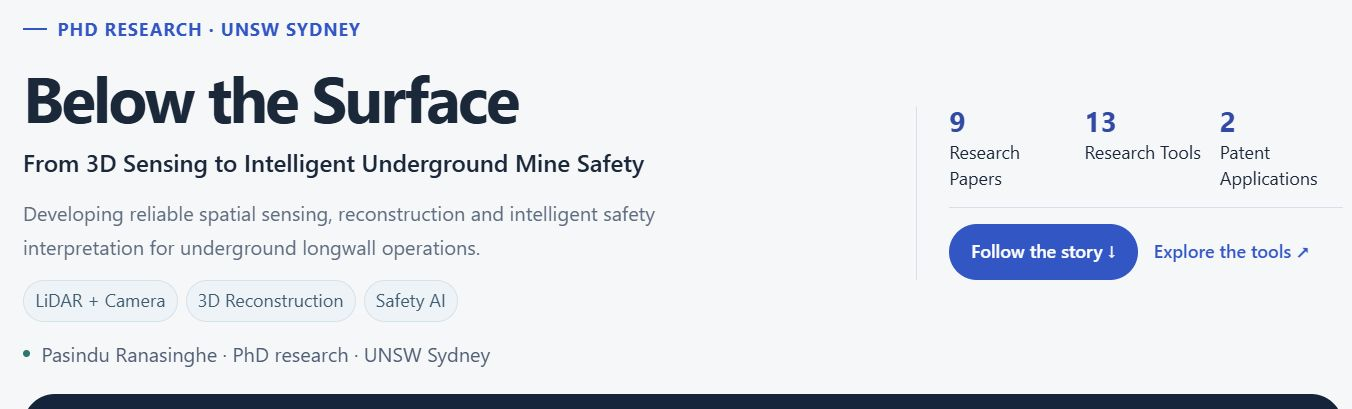
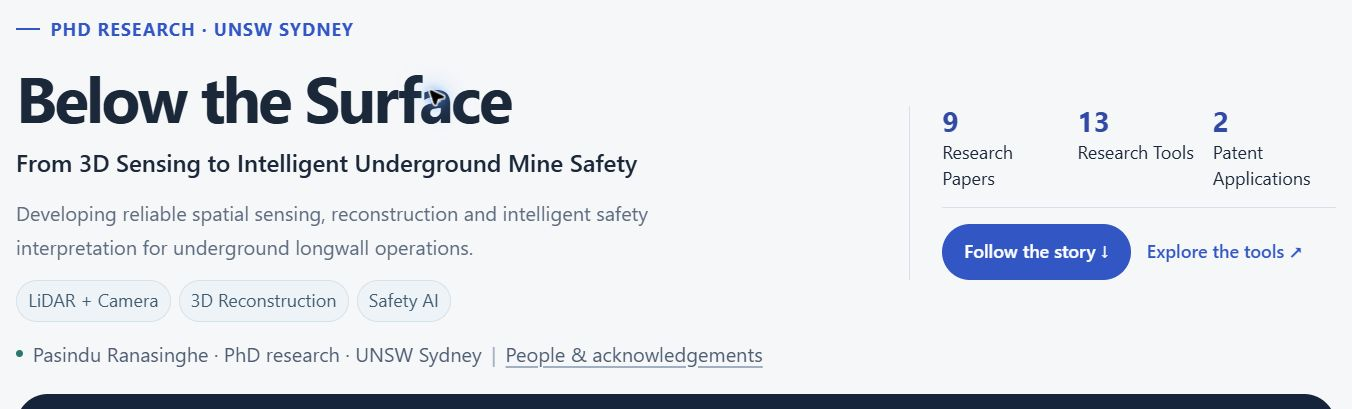
Add compact people and acknowledgements profiles

diff --git a/src/scripts/app.js b/src/scripts/app.js
@@ -67,7 +67,7 @@
     <section class="story-section container" id="story-array"><div class="section-heading"><div><div class="eyebrow">05 / Reconstruct</div><h2>Many local views.<br>One common scene.</h2></div><p>One device sees a local region. An array needs overlapping views, suitable mounting geometry and reliable alignment to build a wider scene.</p></div><div class="array-introduction"><div><h3>A convincing fit<br>can still be the wrong fit.</h3><p>Repeated roof supports look similar. Aligning surfaces alone can place a device in the wrong position. The array research uses known spacing as a physical constraint, alongside roof-plane alignment and global pose optimisation.</p></div><div><p>Explore the coverage and alignment tools, then follow the manuscript figures from local observations to a merged scene.</p>${sectionLinks(['Lidar_camera_FOV_analysis','Multi_device_reconstruction-pose_graph'],'array')}</div></div>${paperFigure('array-fusion-before-after','paper-figure-featured')}<div class="paper-figure-grid">${paperFigure('array-pose-graph')}${paperFigure('array-single-unit-cloud')}</div><p class="technical-note">The array reconstruction examples use simulated longwall data; the single-unit figure shows colourisation rather than multi-device alignment.</p><div class="operator-evidence"><div class="operator-introduction"><div><span class="status-label">Desktop monitoring</span><h3>From streams to an inspectable scene.</h3></div><div><p>The Central Monitoring Platform adds recording, measurements and device diagnostics to individual and combined 3D views.</p>${sectionLinks(['Central_Monitoring_Platform'],'array')}</div></div>${paperFigure('array-monitoring-interface')}</div></section>
     <section class="story-section container" id="story-safety"><div class="section-heading"><div><div class="eyebrow">06 / Interpret</div><h2>Seeing an object<br>is only the beginning.</h2></div><p>Safety interpretation asks what objects mean in relation to one another. The research combines perception with structured relationships, deterministic rules and contextual reasoning.</p></div><div class="reasoning-flow"><div><small>OBSERVE</small><strong>3D point clouds</strong><p>Measured positions and colour.</p></div><div><small>DETECT</small><strong>Scene elements</strong><p>Semantic classes and uncertainty signals.</p></div><div><small>RELATE</small><strong>Scene & temporal graphs</strong><p>Objects, distances and changing relationships.</p></div><div><small>INTERPRET</small><strong>Hazard evidence</strong><p>Rules, context and relevant history.</p></div></div><div class="scenario"><div><span class="status-label" style="color:var(--purple)">An illustrative proximity scenario</span><h3>A person near moving equipment.</h3><p>A proximity rule links the detected person and machinery; context and historical evidence help explain the situation.</p>${sectionLinks(['Scene-Graph_Mine-Safety'],'safety')}</div><div>${safetyGraph()}<p class="caption">Illustrative personnel–equipment relationship; no measured distance or live alert.</p></div></div>${paperFigure('safety-scene-graph-pipeline','paper-figure-featured')}<div class="evidence-numbers"><div><strong>115</strong><span>controlled hazard scenarios</span></div><div><strong>57 → 76 → 93%</strong><span>reported coverage: rules → contextual reasoning → memory</span></div></div><p class="technical-note">Scenario coverage is separate from perception accuracy and processing throughput. MineGraph Studio demonstrates one-frame inspection; it does not connect to live sensors or implement the full temporal research pipeline. The reconstructed-array-to-reasoning connection remains proposed.</p></section>
     <section class="story-section container" id="story-extensions"><div class="section-heading"><div><div class="eyebrow">07 / Further applications</div><h2>More questions<br>from the same geometry.</h2></div><p>Once 3D observations are available, other tools can explore movement and shape. Each has its own purpose and evidence boundary.</p></div><div class="extensions">${[['Creep_Monitoring','↝','Concept / prototype','Gradual relative movement','Track relative roof-support displacement using reference markers and recorded scans. Operating-face creep performance is not established.'],['Dynamic_Object_Detection','◎','Supporting tool','Motion in a persistent scene','Identify moving foreground points while accounting for a stationary or slightly moving sensor. Named monitoring integration remains unverified.'],['Meshing_toolkit','△','Research toolkit','From points to surfaces','Build coloured surface meshes and benchmark scan consistency. A mesh is a representation of the available observations, not additional measured geometry.']].map(x=>`<article class="extension"><span class="icon" aria-hidden="true">${x[1]}</span><span class="status-label">${x[2]}</span><h3>${x[3]}</h3><p>${x[4]}</p><div class="section-links"><button type="button" data-repo="${x[0]}">Explore this application ↗</button></div></article>`).join('')}</div></section>
-    <section class="closing container" id="story-next" aria-labelledby="closing-title"><div class="closing-heading"><div class="eyebrow">Where my research leads</div><h2 id="closing-title">From seeing the face to understanding the scene.</h2><ol class="closing-sequence" aria-label="My research progression"><li>Measure reliably</li><li>Reconstruct the scene</li><li>Interpret relationships</li></ol></div><div class="closing-story"><p>My next challenge is to connect the methods developed across these studies into a continuous workflow, from sensor acquisition to safety interpretation.</p><p>Sustained testing at an operating longwall face will be needed to evaluate that workflow as a whole.</p><div class="actions"><a class="button" href="#tools">Explore my tools <span aria-hidden="true">↗</span></a><a class="button secondary" href="#thesis">Follow my thesis <span aria-hidden="true">↗</span></a></div></div></section>`;
+    <section class="closing container" id="story-next" aria-labelledby="closing-title"><div class="closing-heading"><div class="eyebrow">Where my research leads</div><h2 id="closing-title">From seeing the face to understanding the scene.</h2><ol class="closing-sequence" aria-label="My research progression"><li>Measure reliably</li><li>Reconstruct the scene</li><li>Interpret relationships</li></ol></div><div class="closing-story"><p>My next challenge is to connect the methods developed across these studies into a continuous workflow, from sensor acquisition to safety interpretation.</p><p>Sustained testing at an operating longwall face will be needed to evaluate that workflow as a whole.</p><div class="actions"><a class="button" href="#tools">Explore my tools <span aria-hidden="true">↗</span></a><a class="button secondary" href="#thesis">Follow my thesis <span aria-hidden="true">↗</span></a></div></div></section>${window.PEOPLE.render()}`;
   }
   function safetyGraph(){return '<div class="relationship-graph" role="img" aria-label="Illustrative graph: a person is near equipment, related to scene context and rule evidence."><div class="relationship-node relationship-context">Scene context</div><span class="relationship-link" aria-hidden="true"></span><div class="relationship-pair"><div class="relationship-node">Person</div><div class="relationship-edge">near<span aria-hidden="true">→</span></div><div class="relationship-node">Equipment</div></div><span class="relationship-link" aria-hidden="true"></span><div class="relationship-node relationship-rule">Rule evidence</div></div>'}
 

diff --git a/src/scripts/portfolio-ui.js b/src/scripts/portfolio-ui.js
@@ -15,7 +15,7 @@
   function hero(){
     const h=content.hero,summary=window.PUBLICATION_SUMMARY;
     const count=Object.values(summary.groups).reduce((n,g)=>n+g.length,0);
-    return `<section class="portfolio-hero" aria-labelledby="portfolio-title"><div class="portfolio-opening"><div class="eyebrow">${esc(h.eyebrow)}</div><h1 id="portfolio-title">${esc(h.title)}</h1><p class="portfolio-subtitle">${esc(h.subtitle)}</p><p class="intro">${esc(h.description)}</p><ul class="research-tags" aria-label="Research themes">${h.tags.map(t=>`<li>${esc(t)}</li>`).join('')}</ul><div class="byline"><span class="byline-dot" aria-hidden="true"></span>Pasindu Ranasinghe \u00b7 PhD research \u00b7 UNSW Sydney</div></div><div class="portfolio-overview"><div class="portfolio-stats" aria-label="Research portfolio"><button type="button" data-publications><strong>${count}</strong><span>Research Papers</span></button><a href="#tools"><strong>${window.HUB.repositories.length}</strong><span>Research Tools</span></a><button type="button" data-publications><strong>${summary.patents.length}</strong><span>Patent Applications</span></button></div><div class="actions"><a class="button" href="#story/context">Follow the story \u2193</a><a class="text-link" href="#tools">Explore the tools \u2197</a></div></div></section>`;
+    return `<section class="portfolio-hero" aria-labelledby="portfolio-title"><div class="portfolio-opening"><div class="eyebrow">${esc(h.eyebrow)}</div><h1 id="portfolio-title">${esc(h.title)}</h1><p class="portfolio-subtitle">${esc(h.subtitle)}</p><p class="intro">${esc(h.description)}</p><ul class="research-tags" aria-label="Research themes">${h.tags.map(t=>`<li>${esc(t)}</li>`).join('')}</ul><div class="byline"><span class="byline-dot" aria-hidden="true"></span>Pasindu Ranasinghe \u00b7 PhD research \u00b7 UNSW Sydney <span class="people-separator" aria-hidden="true">|</span><a class="people-jump" href="#story/people">People &amp; acknowledgements</a></div></div><div class="portfolio-overview"><div class="portfolio-stats" aria-label="Research portfolio"><button type="button" data-publications><strong>${count}</strong><span>Research Papers</span></button><a href="#tools"><strong>${window.HUB.repositories.length}</strong><span>Research Tools</span></a><button type="button" data-publications><strong>${summary.patents.length}</strong><span>Patent Applications</span></button></div><div class="actions"><a class="button" href="#story/context">Follow the story \u2193</a><a class="text-link" href="#tools">Explore the tools \u2197</a></div></div></section>`;
   }
   function progression(){return `<nav class="research-progression" aria-label="Research progression">${content.progression.map((s,i)=>`<a href="#story/${s.section}">${icon(s.icon)}<span>${esc(s.label)}</span>${i<content.progression.length-1?'<span class="progression-arrow" aria-hidden="true">→</span>':''}</a>`).join('')}</nav>`}
   function visual(r,figureCredit,full=false){

diff --git a/src/styles/people.css b/src/styles/people.css
@@ -1,0 +1,16 @@
+.portfolio-opening .byline{gap:.4rem .6rem}
+.people-jump{display:inline;color:inherit;font-size:inherit;line-height:inherit;text-decoration:underline;text-decoration-color:#9eafc3;text-underline-offset:.2em}
+.people-separator{color:#9eafc3}
+.people-section{padding:2.5rem 0 3rem;border-top:1px solid var(--line)}
+.people-heading{display:flex;align-items:center;justify-content:space-between;gap:1rem;margin-bottom:1.5rem}
+.people-heading .eyebrow{margin-bottom:.65rem}.people-heading h2{margin:0;font-size:clamp(1.9rem,3vw,2.7rem)}
+.people-contributors{display:grid;grid-template-columns:2fr 1fr;gap:1.25rem}
+.people-group{min-width:0;margin-bottom:1.5rem}.people-group>h3{font-size:1.375rem;letter-spacing:-.015em;margin:0 0 .8rem;line-height:1.4}
+.people-cards{display:grid;grid-template-columns:repeat(2,minmax(0,1fr));gap:1.25rem}
+.people-collaborators .people-cards{grid-template-columns:1fr}.people-acknowledgements .people-cards{grid-template-columns:repeat(3,minmax(0,1fr))}
+.person-card{display:flex;flex-direction:row;align-items:flex-start;gap:.85rem;background:white;border:1px solid #d6e0ed;border-radius:1.15rem;padding:1.25rem;min-width:0}
+.person-avatar{width:72px;height:72px;border-radius:50%;flex:none;background:#edf3f7}
+.person-copy{min-width:0}.person-copy h4{font-size:1.5rem;line-height:1.25;margin:0 0 .35rem;overflow-wrap:anywhere}.person-copy p{font-size:1.25rem;line-height:1.5;margin:0}
+.site-footer{grid-template-columns:1fr auto;gap:1.5rem;padding-block:2rem}.site-footer .footer-note{align-self:center;max-width:25rem}
+@media(max-width:1000px){.people-contributors{grid-template-columns:1fr}.people-collaborators .people-cards{grid-template-columns:repeat(2,minmax(0,1fr))}.people-acknowledgements .people-cards{grid-template-columns:repeat(2,minmax(0,1fr))}.person-card{flex-direction:row}.person-avatar{width:72px;height:72px}.person-copy{min-width:0}}
+@media(max-width:700px){.people-section{padding:2rem 0}.people-heading{align-items:flex-start;flex-direction:column;margin-bottom:1.25rem}.people-cards,.people-collaborators .people-cards,.people-acknowledgements .people-cards{grid-template-columns:1fr;gap:.75rem}.people-contributors{gap:0}.person-card{padding:1rem;gap:.85rem}.person-avatar{width:64px;height:64px}.person-copy h4{font-size:1.375rem}.person-copy p{font-size:1.125rem}.site-footer{grid-template-columns:1fr;gap:.75rem}}

diff --git a/src/scripts/people.js b/src/scripts/people.js
@@ -1,0 +1,26 @@
+(() => {
+  'use strict';
+  // Replace these placeholder names, descriptions and avatar paths here.
+  const avatar = 'public/assets/people/placeholder-avatar.svg';
+  const groups = [
+    { id: 'supervisors', title: 'Supervisors', members: [
+      { name: 'Prof ABC ABC', description: 'Guides my research.', avatar },
+      { name: 'Prof ABC ABC', description: 'Supports my methods.', avatar }
+    ] },
+    { id: 'collaborators', title: 'Research collaborators', members: [
+      { name: 'ABC ABC', description: 'Helps with experiments.', avatar }
+    ] },
+    { id: 'acknowledgements', title: 'Acknowledgements', members: [
+      { name: 'ABC ABC', description: 'Supports lab testing.', avatar },
+      { name: 'ABC ABC', description: 'Helps collect my data.', avatar },
+      { name: 'ABC ABC', description: 'Offers feedback and support.', avatar }
+    ] }
+  ];
+  const esc = value => String(value).replace(/[&<>"']/g, character => ({ '&': '&amp;', '<': '&lt;', '>': '&gt;', '"': '&quot;', "'": '&#39;' }[character]));
+  const card = person => `<article class="person-card"><img class="person-avatar" src="${esc(person.avatar)}" width="72" height="72" alt="" loading="lazy"><div class="person-copy"><h4>${esc(person.name)}</h4><p>${esc(person.description)}</p></div></article>`;
+  const group = item => `<section class="people-group people-${item.id}" aria-labelledby="people-${item.id}-title"><h3 id="people-${item.id}-title">${esc(item.title)}</h3><div class="people-cards">${item.members.map(card).join('')}</div></section>`;
+  function render() {
+    return `<section class="people-section container" id="story-people" aria-labelledby="people-title"><div class="people-heading"><div><div class="eyebrow">Behind my research</div><h2 id="people-title">People & acknowledgements</h2></div></div><div class="people-contributors">${groups.slice(0, 2).map(group).join('')}</div>${group(groups[2])}</section>`;
+  }
+  window.PEOPLE = { groups, render };
+})();

diff --git a/index.html b/index.html
@@ -12,6 +12,7 @@
   <link rel="stylesheet" href="src/styles/figures.css">
   <link rel="stylesheet" href="src/styles/publications.css">
   <link rel="stylesheet" href="src/styles/portfolio.css">
+  <link rel="stylesheet" href="src/styles/people.css">
   <script defer src="src/scripts/repository-status.js"></script>
   <script defer src="src/scripts/data.js"></script>
   <script defer src="src/scripts/paper-figures.js"></script>
@@ -20,6 +21,7 @@
   <script defer src="src/scripts/portfolio-content.js"></script>
   <script defer src="src/scripts/tool-illustrations.js"></script>
   <script defer src="src/scripts/portfolio-ui.js"></script>
+  <script defer src="src/scripts/people.js"></script>
   <script defer src="src/scripts/app.js"></script>
 </head>
 <body>
@@ -39,7 +41,6 @@
   <main id="main" tabindex="-1"></main>
   <footer class="site-footer">
     <div><a class="footer-title" href="#story">Below the Surface</a><p>Pasindu Ranasinghe · UNSW Sydney<br>LiDAR–camera sensing for underground longwall monitoring.</p></div>
-    <div class="footer-links"><a href="#tools">Explore the software ↗</a><a href="#thesis">Research & evidence ↗</a><a href="#sources">Sources & image credits ↗</a></div>
     <p class="footer-note">My PhD journey from sensing to safety.</p>
   </footer>
   <dialog id="repo-dialog" aria-labelledby="dialog-title"><div id="dialog-content"></div></dialog>

diff --git a/docs/people.md b/docs/people.md
@@ -1,0 +1,9 @@
+# Updating people and acknowledgements
+
+Edit `src/scripts/people.js` to replace each placeholder's name and short
+description. The groups contain two supervisors, one research collaborator and
+three acknowledgements. All six currently use an original generic cartoon avatar.
+
+Put replacement portraits in `public/assets/people/` and update each person's
+`avatar` path. Remove the “Placeholder profiles” label in `render()` when the
+profiles are final. Run `npm run build` and `npm run check` after changes.
